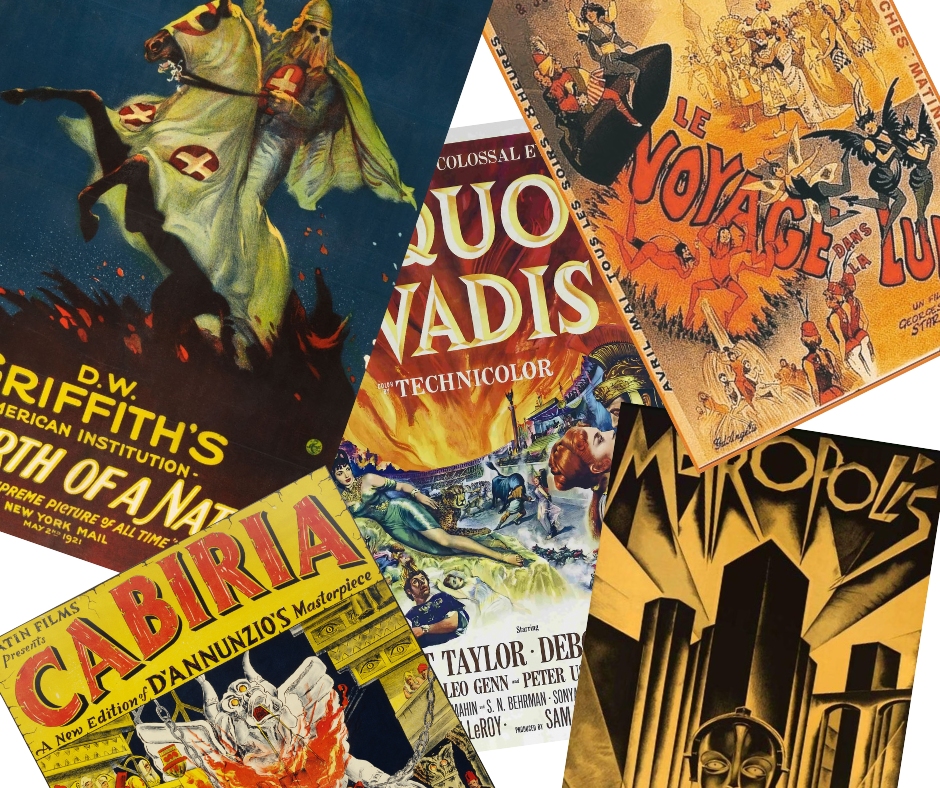
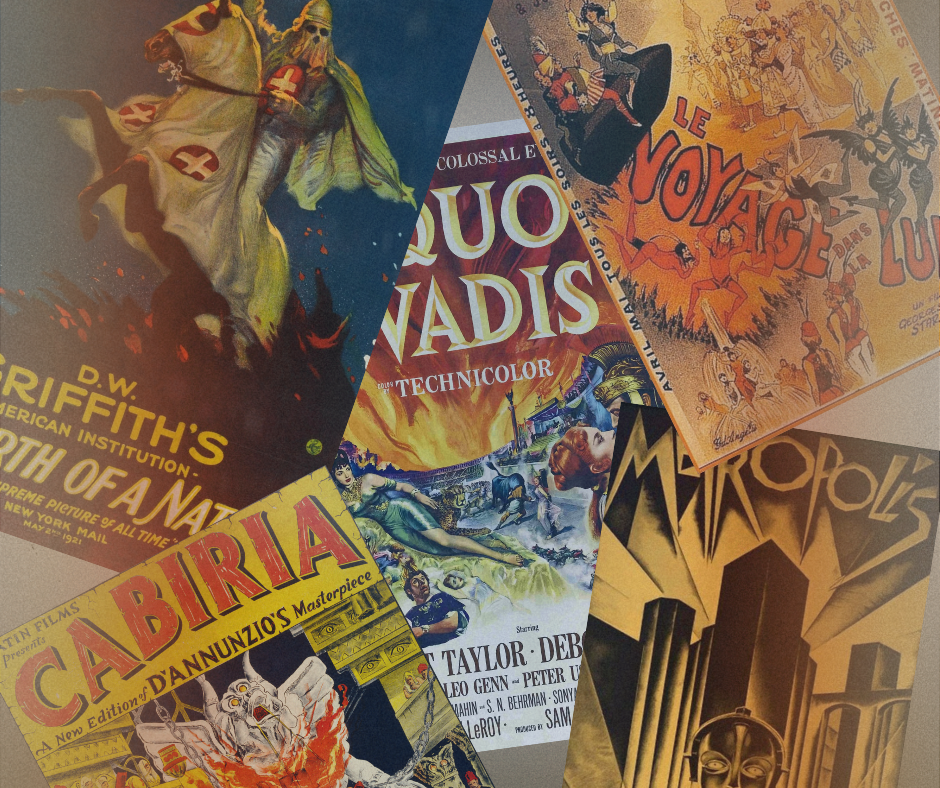
update: modified backgrouns on home, courses, users and profile, and add image to login and register

diff --git a/src/common/Card/Card.css b/src/common/Card/Card.css
@@ -9,7 +9,7 @@
     padding: 0.5em;
     padding-bottom: 3em;
     font-family: "Roboto", sans-serif;
-    background-color: rgb(169, 147, 146);
+    background-color: rgba(255, 255, 255, 0.500);
     border: 0.1em solid rgb(74, 65, 66);
     border-radius: 0.6em;
     margin-bottom: 3em;
@@ -21,7 +21,7 @@
     width: 80vw;
     font-size: 2.5em;
     font-family: "Pirata One", system-ui;
-    background-color: rgb(169, 147, 146);
+    background-color: rgba(169, 147, 146, 0);
     color:rgb(74, 65, 66);
     font-weight: bold;
     border-bottom: 0.1em solid rgb(74, 65, 66);
@@ -32,7 +32,7 @@
     display: flex;
     width: 80vw;
     font-family: "Roboto", sans-serif;
-    background-color: rgb(169, 147, 146);
+    background-color: rgba(169, 147, 146, 0);
     color:black;
     min-height: auto;
     font-size: 1.5em;
@@ -47,7 +47,7 @@
     height: 3.7vh;
     font-size: 1.5em;
     font-family: "Roboto", sans-serif;
-    background-color: rgba(255, 255, 255, 0.511);
+    background-color: rgba(255, 255, 255, 0.500);
     color:black;
     font-weight: bold;
     border-radius: 0.2em;
@@ -75,7 +75,7 @@
     min-height: 5vh;
     width: 90vw;
     font-family: "Roboto", sans-serif;
-    background-color: rgb(169, 147, 146);
+    background-color: rgba(255, 255, 255, 0.500);
     border: 0.1em solid rgb(74, 65, 66);
     border-radius: 0.6em;
     font-size: 1em;
@@ -117,7 +117,7 @@
     padding: 0.5em;
     padding-bottom: 3em;
     font-family: "Roboto", sans-serif;
-    background-color: rgb(169, 147, 146);
+    background-color: rgba(255, 255, 255, 0.500);
     border: 0.1em solid rgb(74, 65, 66);
     border-radius: 0.6em;
     margin-bottom: 3em;
@@ -132,7 +132,7 @@
     display: flex;
     width: 80vw;
     font-family: "Roboto", sans-serif;
-    background-color: rgb(169, 147, 146);
+    background-color: rgba(169, 147, 146, 0);
     color:black;
     min-height: auto;
     font-size: 1.3em;
@@ -145,7 +145,7 @@
     display: flex;
     width: 80vw;
     font-family: "Pirata One", system-ui;
-    background-color: rgb(169, 147, 146);
+    background-color: rgba(169, 147, 146, 0);
     color:black;
     font-weight: bold;
     min-height: auto;

diff --git a/src/pages/Courses/Courses.css b/src/pages/Courses/Courses.css
@@ -1,8 +1,12 @@
 .courseDesign {
     min-height: 100vh;
     width: 100vw;
-    background-color: white;
+    background-image:url(../../../img/background.png);
+    background-size: cover; 
+    background-repeat: no-repeat; 
+    background-position: center;
     color: black;
+    background-attachment: fixed;
     margin-top: 3em;
     display: flex;
     flex-direction: column;
@@ -83,7 +87,7 @@
     padding: 0.5em;
     padding-bottom: 1.5em;
     font-family: "Roboto", sans-serif;
-    background-color: rgb(169, 147, 146);
+    background-color: rgba(255, 255, 255, 0.500);
     border: 0.1em solid rgb(74, 65, 66);
     border-radius: 0.6em;
     padding-top: 1em;

diff --git a/src/pages/Home/Home.css b/src/pages/Home/Home.css
@@ -2,9 +2,12 @@
     min-height: 100vh;
     width: 100vw;  
     margin-top: 3em;
-    background-color: white;
+    background-image:url(../../../img/background.png);
+    background-size: cover; 
+    background-repeat: no-repeat; 
+    background-position: center;
     color: black;
-
+    background-attachment: fixed;
 
     display: flex;
     flex-direction: column;
@@ -72,7 +75,7 @@
     display: flex;
     font-family: "Roboto", sans-serif;
     border: 0.1em solid rgb(74, 65, 66);
-    background-color: rgb(169, 147, 146);
+    background-color: rgba(255, 255, 255, 0.700);
     padding: 2em; 
     border-radius: 1.5em;
 

diff --git a/src/pages/Profile/Profile.css b/src/pages/Profile/Profile.css
@@ -1,9 +1,13 @@
 .profileDesign {
     min-height: 100vh;
     width: 100vw;
-    background-color: white;
+    background-image:url(../../../img/background.png);
+    background-size: cover; 
+    background-repeat: no-repeat; 
+    background-position: center;
     color: black;
-    padding-top: 3em;
+    background-attachment: fixed;
+    margin-top: 3em;
     display: flex;
     flex-direction: column;
     justify-content: center;

diff --git a/src/pages/Users/Users.css b/src/pages/Users/Users.css
@@ -1,8 +1,12 @@
 .usersDesign {
     min-height: 100vh;
     width: 100vw;
-    background-color: white;
+    background-image:url(../../../img/background.png);
+    background-size: cover; 
+    background-repeat: no-repeat; 
+    background-position: center;
     color: black;
+    background-attachment: fixed;
     margin-top: 3em;
     display: flex;
     flex-direction: column;
